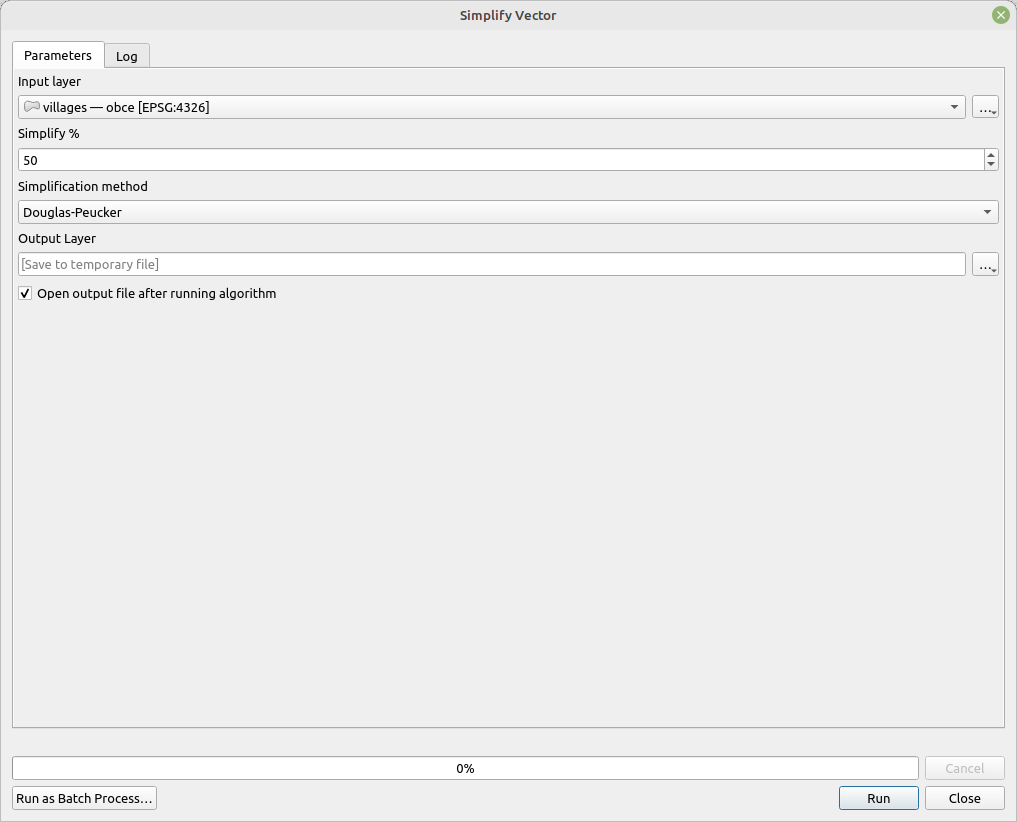
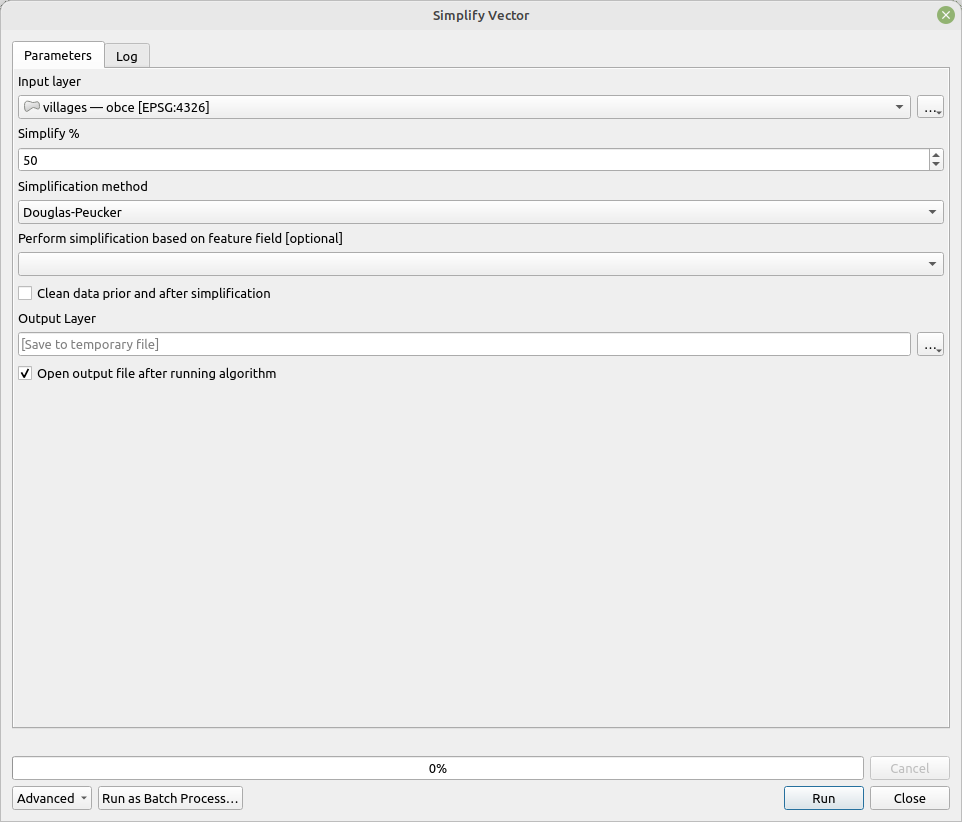
deploy: 58ebdf1826c7a7e4ce48246a1012bc6337ce9265

diff --git a/tools/tool_simplify_lines/index.html b/tools/tool_simplify_lines/index.html
@@ -6,9 +6,9 @@
         <meta name="viewport" content="width=device-width, initial-scale=1.0">
         
         <meta name="author" content="Jan Caha">
-        <link rel="canonical" href="https://jancaha.github.io/qgis-qmapshaper/GUI%20Tools/tool_interactive_simplifier/">
+        <link rel="canonical" href="https://jancaha.github.io/qgis-qmapshaper/tools/tool_simplify_lines/">
         <link rel="shortcut icon" href="../../img/favicon.ico">
-        <title>Interactive Simplifier - QMapshaper</title>
+        <title>Simplify Polygon Lines - QMapshaper</title>
         <link href="../../css/bootstrap.min.css" rel="stylesheet">
         <link href="../../css/font-awesome.min.css" rel="stylesheet">
         <link href="../../css/base.css" rel="stylesheet">
@@ -41,29 +41,29 @@
                             <li class="navitem">
                                 <a href="../../changelog/" class="nav-link">Changelog</a>
                             </li>
-                            <li class="dropdown active">
+                            <li class="dropdown">
                                 <a href="#" class="nav-link dropdown-toggle" data-toggle="dropdown">GUI Tools <b class="caret"></b></a>
                                 <ul class="dropdown-menu">
                                     
 <li>
-    <a href="./" class="dropdown-item active">Interactive Simplifier</a>
+    <a href="../../GUI%20Tools/tool_interactive_simplifier/" class="dropdown-item">Interactive Simplifier</a>
 </li>
                                 </ul>
                             </li>
-                            <li class="dropdown">
+                            <li class="dropdown active">
                                 <a href="#" class="nav-link dropdown-toggle" data-toggle="dropdown">Tools <b class="caret"></b></a>
                                 <ul class="dropdown-menu">
                                     
 <li>
-    <a href="../../tools/tool_simplify/" class="dropdown-item">Simplify Vector</a>
+    <a href="../tool_simplify/" class="dropdown-item">Simplify Vector</a>
 </li>
                                     
 <li>
-    <a href="../../tools/tool_simplify_lines/" class="dropdown-item">Simplify Polygon Lines</a>
+    <a href="./" class="dropdown-item active">Simplify Polygon Lines</a>
 </li>
                                     
 <li>
-    <a href="../../tools/tool_to_topojson/" class="dropdown-item">Convert to TopoJSON</a>
+    <a href="../tool_to_topojson/" class="dropdown-item">Convert to TopoJSON</a>
 </li>
                                 </ul>
                             </li>
@@ -97,13 +97,17 @@
     <div id="toc-collapse" class="navbar-collapse collapse card bg-secondary">
         <ul class="nav flex-column">
             
-            <li class="nav-item" data-level="1"><a href="#interactive-simplifier" class="nav-link">Interactive Simplifier</a>
+            <li class="nav-item" data-level="1"><a href="#simplify-polygon-lines" class="nav-link">Simplify Polygon Lines</a>
               <ul class="nav flex-column">
-            <li class="nav-item" data-level="2"><a href="#tool-screenshot" class="nav-link">Tool screenshot</a>
+            <li class="nav-item" data-level="2"><a href="#parameters" class="nav-link">Parameters</a>
               <ul class="nav flex-column">
               </ul>
             </li>
-            <li class="nav-item" data-level="2"><a href="#tool-use-case" class="nav-link">Tool Use Case</a>
+            <li class="nav-item" data-level="2"><a href="#outputs" class="nav-link">Outputs</a>
+              <ul class="nav flex-column">
+              </ul>
+            </li>
+            <li class="nav-item" data-level="2"><a href="#tool-screenshot" class="nav-link">Tool screenshot</a>
               <ul class="nav flex-column">
               </ul>
             </li>
@@ -114,13 +118,80 @@
 </div></div>
                     <div class="col-md-9" role="main">
 
-<h1 id="interactive-simplifier">Interactive Simplifier</h1>
-<p>The tool is an interactive version of <a href="../../tools/tool_simplify/">Simplify Vector</a>, providing the same settings but allowing to immediately check the outcome of the simplification (as soon as it is calculated) and if deemed fine the outcome can be exported back to QGIS project.</p>
-<p>The only difference is that partial generalization is based on active selection on the layer (instead of attribute). User can select if selected features should be generalized (leaving the rest intact) or if the selected features should remain intact and all other features should be generalized.  </p>
+<h1 id="simplify-polygon-lines">Simplify Polygon Lines</h1>
+<p>Tool that allows to generalized only inner (shared) or outer borders polygon layer. </p>
+<p>!!! Note that event thought that the tools tries as much as possible to return the same layer (in terms of features, not geometries obviously), it is quite possible that the layers won't fit together. Number of features may change and some it might be problematic or not possible to join attributes back to features. This tool should only be used to create layers for visualization and the outcome should be double checked for potential errors.</p>
+<h2 id="parameters">Parameters</h2>
+<table>
+<thead>
+<tr>
+<th>Label</th>
+<th>Name</th>
+<th>Type</th>
+<th>Description</th>
+</tr>
+</thead>
+<tbody>
+<tr>
+<td>Input layer</td>
+<td><code>Input</code></td>
+<td>[vector]</td>
+<td>Input vector layer to convert.</td>
+</tr>
+<tr>
+<td>Simplify %</td>
+<td><code>Simplify</code></td>
+<td>[number] <br/> Default: <code>50</code></td>
+<td>Simplify to this percent of vertices from original layer.</td>
+</tr>
+<tr>
+<td>Simplification method</td>
+<td><code>Method</code></td>
+<td>[enumeration] <br/> Default: <code>0</code></td>
+<td>Type of simplification method. <br/><br/> <strong>Values</strong>: <br/> <strong>0</strong> - Douglas-Peucker <br/> <strong>1</strong> - Visvalingam</td>
+</tr>
+<tr>
+<td>Generalize polygon's lines</td>
+<td><code>Lines</code></td>
+<td>[enumeration] <br/> Default: <code>0</code></td>
+<td>Which lines should be generalized. <br/><br/> <strong>Values</strong>: <br/> <strong>0</strong> - Inner lines <br/> <strong>1</strong> - Outer lines</td>
+</tr>
+<tr>
+<td>Clean data prior and after simplification</td>
+<td><code>CleanData</code></td>
+<td>[boolean] <br/> Default: <code>False</code></td>
+<td>Should the data be cleaned using mapshapers <code>-clean</code> before and after performing other steps?</td>
+</tr>
+<tr>
+<td>Output Layer</td>
+<td><code>Output</code></td>
+<td>[vector]</td>
+<td>Simplified vector layer.</td>
+</tr>
+</tbody>
+</table>
+<h2 id="outputs">Outputs</h2>
+<table>
+<thead>
+<tr>
+<th>Label</th>
+<th>Name</th>
+<th>Type</th>
+<th>Description</th>
+</tr>
+</thead>
+<tbody>
+<tr>
+<td>Output Layer</td>
+<td><code>Output</code></td>
+<td>[vector]</td>
+<td>Simplified vector layer.</td>
+</tr>
+</tbody>
+</table>
+<p>Output file does not store information about used <strong>CRS</strong>!</p>
 <h2 id="tool-screenshot">Tool screenshot</h2>
-<p><a data-featherlight="../../images/gui_tool_interactive_simplifier.png" href="#"><img alt="Interactive Simplifier" src="../../images/gui_tool_interactive_simplifier.png" /></a></p>
-<h2 id="tool-use-case">Tool Use Case</h2>
-<p><a data-featherlight="../../images/use_case.gif" href="#"><img alt="" src="../../images/use_case.gif" />  </a></p></div>
+<p><a data-featherlight="../../images/tool_simplify_lines.png" href="#"><img alt="Simplify Polygon Lines" src="../../images/tool_simplify_lines.png" /></a></p></div>
             </div>
         </div>
 

diff --git a/changelog/index.html b/changelog/index.html
@@ -59,6 +59,10 @@
 </li>
                                     
 <li>
+    <a href="../tools/tool_simplify_lines/" class="dropdown-item">Simplify Polygon Lines</a>
+</li>
+                                    
+<li>
     <a href="../tools/tool_to_topojson/" class="dropdown-item">Convert to TopoJSON</a>
 </li>
                                 </ul>
@@ -95,6 +99,10 @@
             
             <li class="nav-item" data-level="1"><a href="#changelog" class="nav-link">Changelog</a>
               <ul class="nav flex-column">
+            <li class="nav-item" data-level="2"><a href="#version-07" class="nav-link">version 0.7</a>
+              <ul class="nav flex-column">
+              </ul>
+            </li>
             <li class="nav-item" data-level="2"><a href="#version-051" class="nav-link">version 0.5.1</a>
               <ul class="nav flex-column">
               </ul>
@@ -119,6 +127,27 @@
                     <div class="col-md-9" role="main">
 
 <h1 id="changelog">Changelog</h1>
+<h2 id="version-07">version 0.7</h2>
+<ul>
+<li>
+<p>allow partial generalization of layer based on selection for GUI tool and based on attribute value for processing tool</p>
+</li>
+<li>
+<p>add parameter to clean data in simplify tools (both processing and gui based ones)</p>
+</li>
+<li>
+<p>add tool to simplify inner or outer lines of polygon layers</p>
+</li>
+<li>
+<p>reworked the way how <strong>mapshaper</strong> folder is guessed - should do better job now</p>
+</li>
+<li>
+<p>added option to specify command name to be runned in the Options - processing -&gt; Providers</p>
+</li>
+<li>
+<p>on Windows the temp data created by interactive tool are not deleted immediately but the deletion should be handle by QGIS upon closing</p>
+</li>
+</ul>
 <h2 id="version-051">version 0.5.1</h2>
 <ul>
 <li>fix wrong import in utils.py causing an error</li>

diff --git a/index.html b/index.html
@@ -59,6 +59,10 @@
 </li>
                                     
 <li>
+    <a href="tools/tool_simplify_lines/" class="dropdown-item">Simplify Polygon Lines</a>
+</li>
+                                    
+<li>
     <a href="tools/tool_to_topojson/" class="dropdown-item">Convert to TopoJSON</a>
 </li>
                                 </ul>
@@ -143,6 +147,7 @@ npm install mapshaper
 <h2 id="setting-up">Setting up</h2>
 <p>In <strong>QGIS settings</strong> under <strong>Processing</strong> under <strong>QMapshaper</strong> the <strong><em>mapshaper</em></strong> folder needs to be set up.</p>
 <p>On Linux this tends to be: <code>/home/user_name/node_modules/mapshaper</code>, where you just replace <code>user_name</code> with your user name. If this is not the case you have to investigate, where the folder is. Best way might be to search for file <strong>mapshaper-gui</strong> which is located in the <code>mapshaper/bin</code> directory.</p>
+<p>There is also <strong>Mapshaper tool name</strong> setting that allows user to change the name of binary file to run. On Linux, this should not be needed but on Windows the command can be either <strong>mapshaper-xl</strong> or also <strong>mapshaper-xl.cmd</strong>.</p>
 <h2 id="tools">Tools</h2>
 <p>So far there is processing tool <strong>Simplify vector</strong> usable in complex workflows. There is also <strong>Interactive Simplifier</strong> which is GUI tool that allows playing around interactively with the simplification parameters.</p>
 <h2 id="examples">Examples</h2>
@@ -235,5 +240,5 @@ npm install mapshaper
 
 <!--
 MkDocs version : 1.3.0
-Build Date UTC : 2022-05-09 11:33:11.241847+00:00
+Build Date UTC : 2022-05-20 12:01:36.322595+00:00
 -->

diff --git a/tools/tool_simplify/index.html b/tools/tool_simplify/index.html
@@ -59,6 +59,10 @@
 </li>
                                     
 <li>
+    <a href="../tool_simplify_lines/" class="dropdown-item">Simplify Polygon Lines</a>
+</li>
+                                    
+<li>
     <a href="../tool_to_topojson/" class="dropdown-item">Convert to TopoJSON</a>
 </li>
                                 </ul>
@@ -116,6 +120,7 @@
 
 <h1 id="simplify-vector">Simplify Vector</h1>
 <p>Simplifies provided vector layer to specific percent of original vertices.</p>
+<p>Field for parameter <code>Perform simplification based on feature field</code> should contains values <code>0</code> and <code>1</code>. Features with value <code>1</code> will be generalized and features with value <code>0</code> will not be generalized. If the parameter is not set, all elements in layer will be generalized.</p>
 <h2 id="parameters">Parameters</h2>
 <table>
 <thead>
@@ -144,6 +149,18 @@
 <td><code>Method</code></td>
 <td>[enumeration] <br/> Default: <code>0</code></td>
 <td>Type of simplification method. <br/><br/> <strong>Values</strong>: <br/> <strong>0</strong> - Douglas-Peucker <br/> <strong>1</strong> - Visvalingam</td>
+</tr>
+<tr>
+<td>Perform simplification based on feature field</td>
+<td><code>Field</code></td>
+<td>[field] <br/> Default: <code>None</code></td>
+<td>Optional field that specifies which features should be generalized and which should be left intact.</td>
+</tr>
+<tr>
+<td>Clean data prior and after simplification</td>
+<td><code>CleanData</code></td>
+<td>[boolean] <br/> Default: <code>False</code></td>
+<td>Should the data be cleaned using mapshapers <code>-clean</code> before and after performing other steps?</td>
 </tr>
 <tr>
 <td>Output Layer</td>

diff --git a/404.html b/404.html
@@ -59,6 +59,10 @@
 </li>
                                     
 <li>
+    <a href="/qgis-qmapshaper/tools/tool_simplify_lines/" class="dropdown-item">Simplify Polygon Lines</a>
+</li>
+                                    
+<li>
     <a href="/qgis-qmapshaper/tools/tool_to_topojson/" class="dropdown-item">Convert to TopoJSON</a>
 </li>
                                 </ul>

diff --git a/tools/tool_to_topojson/index.html b/tools/tool_to_topojson/index.html
@@ -59,6 +59,10 @@
 </li>
                                     
 <li>
+    <a href="../tool_simplify_lines/" class="dropdown-item">Simplify Polygon Lines</a>
+</li>
+                                    
+<li>
     <a href="./" class="dropdown-item active">Convert to TopoJSON</a>
 </li>
                                 </ul>
